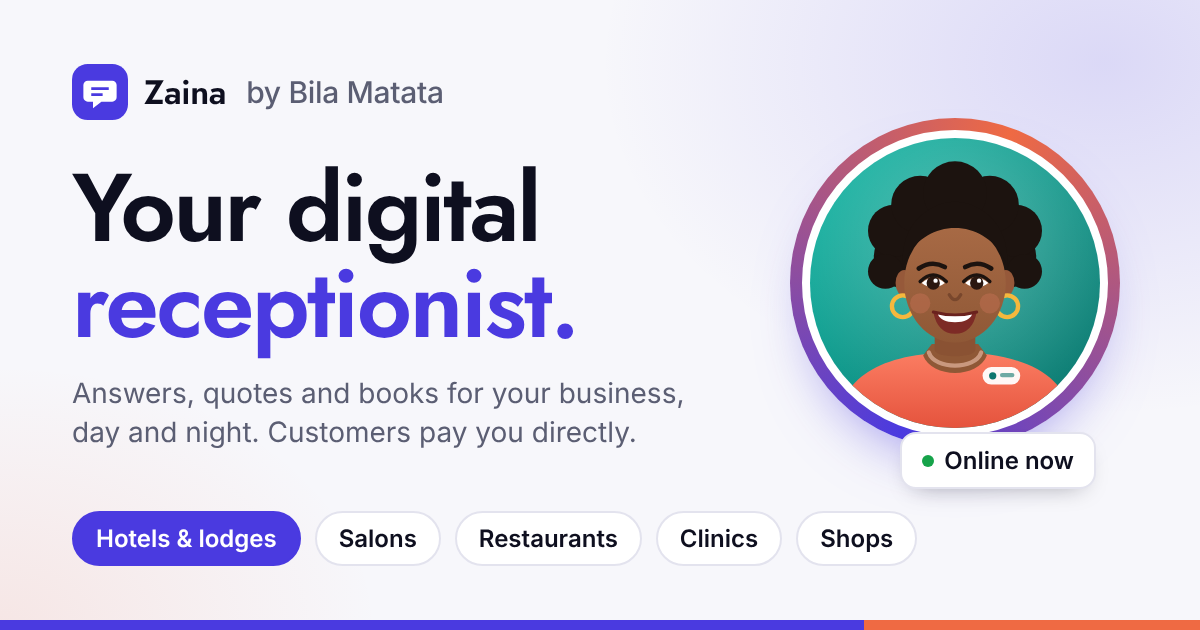
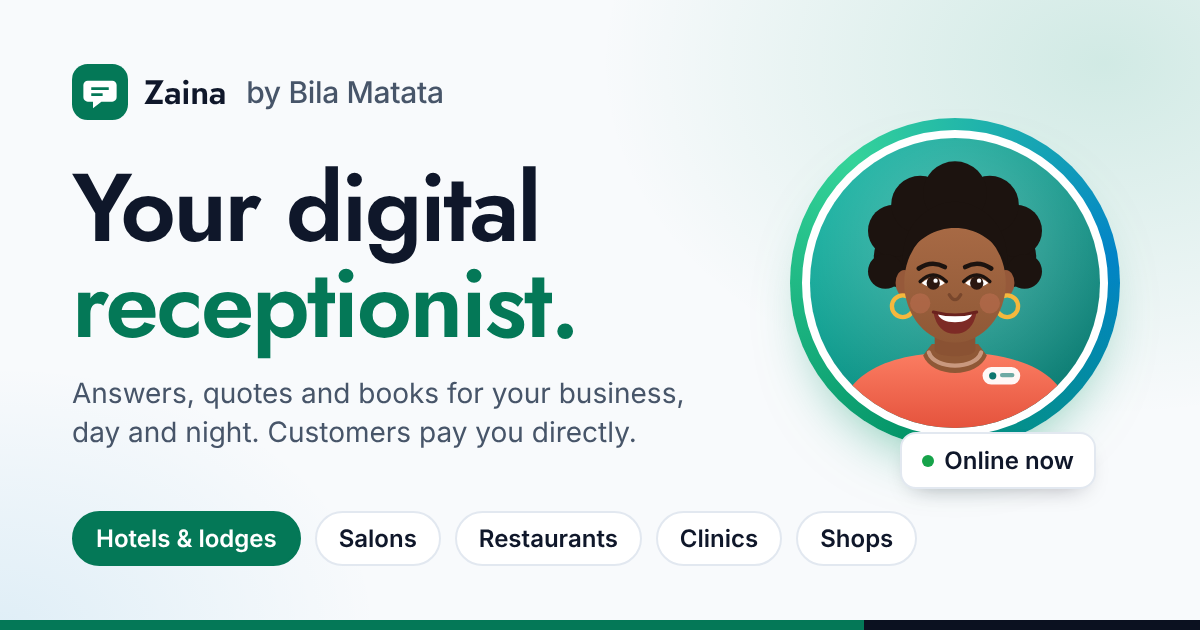
Restyle bilamatata.com: alabaster and deep forest emerald, dark slate demo stage
- Tokens: alabaster page, white cards with slate lines, slate headings and
  body text; emerald for actions (#047857 for text-sized use, so it passes
  AA) and #059669 for strokes, frames and marks; light-only marketing site
- Live demo now sits on a dark slate stage: the customer's phone stays
  bright, the owner's side is a dark dashboard with mint, cyan and amber
  status chips
- Full plan framed in 2px emerald with its mint "Finishes the sale" tag;
  service and trait icons in mint badges with emerald strokes
- Calculator answer, code snippet and contact panel on the stage colour
- Favicon, theme colour and both share images regenerated in emerald

Claude-Session: https://claude.ai/code/session_01XFQXkjhGAP37hPKd5ndQVX

diff --git a/src/studio/site-css.ts b/src/studio/site-css.ts
@@ -3,11 +3,15 @@
 // The styles of bilamatata.com's own pages (home, terms, pay), served at
 // /site/site.css. One file, no outside frameworks; light and dark.
 //
-// The brand, "Signal": Iris, a deep electric blue-violet, for the studio's
-// AI, software and data work; Zaina's coral as the one warm accent, used
-// sparingly; cool clean neutrals. Headlines, the wordmark and prices in Jost,
-// a precise geometric sans (served from our own address); everything else in
-// the phone's own sans-serif, so pages stay fast and easy to read.
+// The brand: alabaster and deep forest emerald, a high-trust light page for
+// owners reading prices and plans, with dark slate stages where the product
+// itself shows (the live demo, the code snippet, the calculator's answer).
+// Emerald for actions and trust cues (it sits naturally beside WhatsApp and
+// M-Pesa); text-sized emerald is the darker #047857 so it always reads
+// (WCAG AA); cyan and amber only inside the demo and the figures. Light
+// only: the bright page is the point. Headlines, the wordmark and prices in
+// Jost, a precise geometric sans (served from our own address); everything
+// else in the phone's own sans-serif, so pages stay fast and easy to read.
 
 import { createHash } from "node:crypto";
 import { TITLE_FONTS } from "../frontdoor/title-fonts.ts";
@@ -17,57 +21,39 @@ import { HOME_CSS, HOME_JS } from "./home-sections.ts";
 export const SITE_CSS = String.raw`
 @font-face { font-family: "Bila Display"; src: url(/c-assets/title-modern.woff2?v=${TITLE_FONTS.modern.version}) format("woff2"); font-weight: 600; font-style: normal; font-display: swap; }
 :root {
-  color-scheme: light dark;
-  --bg: #f7f7fb;
+  color-scheme: light;
+  --bg: #f8fafc;
   --surface: #ffffff;
-  --surface-2: #efeff6;
-  --ink: #0e0f1f;
-  --muted: #5b5e73;
-  --line: #e3e3ee;
-  --accent: #4a3ae0;
-  --accent-strong: #3a2bc2;
+  --surface-2: #f1f5f9;
+  --ink: #0f172a;
+  --body: #334155;
+  --muted: #475569;
+  --line: #e2e8f0;
+  --accent: #047857;
+  --accent-strong: #065f46;
   --accent-ink: #ffffff;
-  --accent-soft: #ecebfd;
-  --coral: #ef6a43;
-  --coral-ink: #c2471f;
-  --coral-soft: #fdeae3;
-  --pen: rgba(239, 106, 67, 0.55);
-  --display: "Bila Display", Jost, Futura, "Century Gothic", ui-sans-serif, system-ui, sans-serif;
-  --sans: ui-sans-serif, system-ui, -apple-system, "Segoe UI", Roboto, "Helvetica Neue", Arial, sans-serif;
+  --accent-soft: #ecfdf5;
+  --brand: #059669;
+  --mint: #6ee7b7;
+  --cyan: #0284c7;
+  --amber: #d97706;
+  --stage: #0b1120;
+  --stage-card: #0f172a;
+  --stage-line: #1e293b;
+  --stage-ink: #e2e8f0;
+  --stage-muted: #94a3b8;
   --warm: #b45309;
-  --warm-soft: #fdf1e2;
-  --ok: #15803d;
-  --ok-soft: #e7f6ec;
+  --warm-soft: #fef3c7;
+  --ok: #047857;
+  --ok-soft: #ecfdf5;
   --bad: #b91c1c;
   --bad-soft: #fdecec;
-  --shadow: 0 1px 2px rgba(14, 15, 31, 0.05), 0 18px 40px -24px rgba(36, 26, 120, 0.3);
+  --pen: rgba(16, 185, 129, 0.28);
+  --display: "Bila Display", Jost, Futura, "Century Gothic", ui-sans-serif, system-ui, sans-serif;
+  --sans: ui-sans-serif, system-ui, -apple-system, "Segoe UI", Roboto, "Helvetica Neue", Arial, sans-serif;
+  --shadow: 0 1px 2px rgba(15, 23, 42, 0.05), 0 18px 40px -24px rgba(15, 23, 42, 0.28);
   --radius: 18px;
   --wrap: 1200px;
-}
-@media (prefers-color-scheme: dark) {
-  :root {
-    --bg: #0b0c17;
-    --surface: #121427;
-    --surface-2: #181a33;
-    --ink: #eeeffc;
-    --muted: #a5a8c4;
-    --line: #262946;
-    --accent: #9f95ff;
-    --accent-strong: #bdb6ff;
-    --accent-ink: #0b0c17;
-    --accent-soft: #1d1b45;
-    --coral: #ff8e66;
-    --coral-ink: #ffab8c;
-    --coral-soft: #3a2018;
-    --pen: rgba(255, 142, 102, 0.8);
-    --warm: #fbbf24;
-    --warm-soft: #2a2110;
-    --ok: #4ade80;
-    --ok-soft: #10281a;
-    --bad: #f87171;
-    --bad-soft: #2c1414;
-    --shadow: 0 1px 2px rgba(0, 0, 0, 0.4), 0 16px 36px -20px rgba(0, 0, 0, 0.7);
-  }
 }
 *, *::before, *::after { box-sizing: border-box; }
 [hidden] { display: none !important; }
@@ -75,7 +61,7 @@ html { scroll-behavior: smooth; -webkit-text-size-adjust: 100%; }
 body {
   margin: 0;
   background: var(--bg);
-  color: var(--ink);
+  color: var(--body);
   font-family: var(--sans);
   font-size: 17px;
   line-height: 1.6;
@@ -83,7 +69,7 @@ body {
 img, svg { max-width: 100%; }
 a { color: var(--accent); text-underline-offset: 3px; }
 a:hover { color: var(--accent-strong); }
-h1, h2, h3 { line-height: 1.15; letter-spacing: -0.02em; margin: 0; text-wrap: balance; }
+h1, h2, h3 { line-height: 1.15; letter-spacing: -0.02em; margin: 0; text-wrap: balance; color: var(--ink); }
 /* Headlines in the display serif: one weight, set a touch loose, figures that line up. */
 h1, h2 { font-family: var(--display); font-weight: 600; letter-spacing: -0.022em; font-synthesis: none; }
 h1 { font-size: clamp(2.5rem, 5.6vw, 4.2rem); line-height: 1.02; }
@@ -127,19 +113,19 @@ p { margin: 0; }
 .btn[disabled] { opacity: 0.6; cursor: not-allowed; transform: none; }
 
 /* ── Hero ─────────────────────────────────────────────────────────── */
-/* A soft light behind the headline: iris to the right, a warm coral glow to the left. */
+/* A soft light behind the headline: emerald to the right, a cool cyan glow to the left. */
 .hero { padding-block: clamp(48px, 8vw, 104px) clamp(40px, 6vw, 80px);
   background: radial-gradient(52% 68% at 86% 22%, color-mix(in srgb, var(--accent) 13%, transparent), transparent 72%),
-    radial-gradient(42% 52% at 2% 0%, color-mix(in srgb, var(--coral) 10%, transparent), transparent 70%); }
+    radial-gradient(42% 52% at 2% 0%, color-mix(in srgb, var(--cyan) 8%, transparent), transparent 70%); }
 .hero-solo { max-width: var(--wrap); }
 .hero-solo > div { max-width: 50em; }
 .hero-grid { display: grid; grid-template-columns: minmax(0, 1.15fr) minmax(0, 0.85fr); gap: clamp(28px, 5vw, 64px); align-items: center; }
 .eyebrow { display: inline-flex; align-items: center; gap: 8px; font-size: 0.8rem; font-weight: 700; letter-spacing: 0.12em; text-transform: uppercase; color: var(--accent); }
-.eyebrow::before { content: ""; width: 22px; height: 2px; background: var(--coral); border-radius: 2px; }
+.eyebrow::before { content: ""; width: 22px; height: 2px; background: var(--brand); border-radius: 2px; }
 .section-head .eyebrow { margin-top: 0; font-size: 0.8rem; color: var(--accent); }
 .section-head .eyebrow + h2 { margin-top: 12px; }
 .hero h1 { margin-top: 18px; }
-/* The promise, underlined in coral like a pen stroke. */
+/* The promise, underlined with a soft emerald band like a highlighter stroke. */
 .hero h1 em { font-style: normal; color: var(--accent); background: linear-gradient(transparent 87%, var(--pen) 87%, var(--pen) 95%, transparent 95%); -webkit-box-decoration-break: clone; box-decoration-break: clone; }
 .lede { margin-top: 20px; font-size: clamp(1.05rem, 1.6vw, 1.22rem); color: var(--muted); max-width: 36em; }
 .cta-row { display: flex; flex-wrap: wrap; gap: 12px; margin-top: 30px; }
@@ -185,7 +171,7 @@ section { scroll-margin-top: 80px; }
 .band.alt .card { background: var(--bg); }
 .card h3 { margin-bottom: 8px; }
 .card p { color: var(--muted); font-size: 0.98rem; }
-.card .icon { width: 42px; height: 42px; border-radius: 12px; background: var(--accent-soft); color: var(--accent); display: grid; place-items: center; margin-bottom: 16px; }
+.card .icon { width: 42px; height: 42px; border-radius: 12px; background: var(--accent-soft); color: var(--brand); display: grid; place-items: center; margin-bottom: 16px; }
 .card .icon svg { width: 22px; height: 22px; }
 .card ul { margin: 14px 0 0; padding: 0; list-style: none; display: grid; gap: 8px; }
 .card li { position: relative; padding-left: 24px; font-size: 0.95rem; color: var(--ink); }
@@ -206,11 +192,11 @@ table.compare { width: 100%; min-width: 640px; border-collapse: collapse; font-s
 .plans { display: grid; grid-template-columns: repeat(2, minmax(0, 1fr)); gap: 18px; margin-top: 36px; }
 @media (max-width: 760px) { .plans { grid-template-columns: minmax(0, 1fr); } }
 .plan { position: relative; background: var(--surface); border: 1px solid var(--line); border-radius: 20px; padding: 28px; display: flex; flex-direction: column; min-width: 0; }
-.plan.featured { border-color: var(--accent); box-shadow: var(--shadow); }
+.plan.featured { border: 2px solid var(--brand); box-shadow: 0 24px 48px -28px rgba(5, 150, 105, 0.45); }
 .plan .tag { align-self: flex-start; font-size: 0.74rem; font-weight: 700; letter-spacing: 0.1em; text-transform: uppercase; padding: 5px 10px; border-radius: 999px; background: var(--accent-soft); color: var(--accent); margin-bottom: 14px; }
 .plan .price { margin-top: 14px; font-size: 2.5rem; line-height: 1.1; }
 /* Prices in the display serif, figures lined up. */
-.plan .price, .plan-extra .price, .card.service .from, .amount { font-family: var(--display); font-weight: 600; letter-spacing: -0.015em; font-variant-numeric: tabular-nums; font-synthesis: none; }
+.plan .price, .plan-extra .price, .card.service .from, .amount { font-family: var(--display); font-weight: 600; color: var(--ink); letter-spacing: -0.015em; font-variant-numeric: tabular-nums; font-synthesis: none; }
 .plan .price small, .plan-extra .price small, .card.service .from span { font-family: var(--sans); }
 .plan .price small { font-size: 1rem; font-weight: 600; color: var(--muted); letter-spacing: 0; }
 .plan .setup { margin-top: 4px; color: var(--muted); font-size: 0.95rem; }
@@ -239,7 +225,7 @@ table.compare { width: 100%; min-width: 640px; border-collapse: collapse; font-s
 .plan li { position: relative; padding-left: 26px; font-size: 0.97rem; }
 .plan li::before { content: ""; position: absolute; left: 3px; top: 0.5em; width: 12px; height: 7px; border-left: 2px solid var(--accent); border-bottom: 2px solid var(--accent); transform: rotate(-45deg); }
 .fine { margin-top: 18px; font-size: 0.9rem; color: var(--muted); }
-.snippet { margin-top: 28px; padding: 16px 18px; border-radius: 14px; background: var(--ink); color: var(--bg); font-family: ui-monospace, SFMono-Regular, Menlo, Consolas, monospace; font-size: 0.86rem; overflow-x: auto; white-space: pre; }
+.snippet { margin-top: 28px; padding: 16px 18px; border-radius: 14px; background: var(--stage); color: var(--stage-ink); border: 1px solid var(--stage-line); font-family: ui-monospace, SFMono-Regular, Menlo, Consolas, monospace; font-size: 0.86rem; overflow-x: auto; white-space: pre; }
 
 /* Steps. */
 .steps { counter-reset: step; display: grid; grid-template-columns: repeat(4, minmax(0, 1fr)); gap: 18px; margin: 36px 0 0; padding: 0; list-style: none; }
@@ -251,7 +237,7 @@ table.compare { width: 100%; min-width: 640px; border-collapse: collapse; font-s
 .steps p { color: var(--muted); font-size: 0.96rem; }
 
 /* Contact. */
-.contact { background: radial-gradient(70% 130% at 100% 0%, color-mix(in srgb, var(--accent) 34%, transparent), transparent 62%), var(--ink); color: var(--bg); border-radius: 26px; padding: clamp(28px, 5vw, 56px); display: grid; grid-template-columns: minmax(0, 1.2fr) minmax(0, 0.8fr); gap: 28px; align-items: center; }
+.contact { background: radial-gradient(70% 130% at 100% 0%, color-mix(in srgb, var(--brand) 30%, transparent), transparent 62%), var(--stage); color: var(--bg); border-radius: 26px; padding: clamp(28px, 5vw, 56px); display: grid; grid-template-columns: minmax(0, 1.2fr) minmax(0, 0.8fr); gap: 28px; align-items: center; }
 .contact h2 { color: var(--bg); }
 .contact p { margin-top: 12px; color: color-mix(in srgb, var(--bg) 78%, transparent); }
 .contact .ways { display: grid; gap: 10px; margin: 0; padding: 0; list-style: none; font-size: 1.02rem; }

diff --git a/src/studio/home-sections.ts b/src/studio/home-sections.ts
@@ -265,7 +265,7 @@ export const HOME_CSS = String.raw`
 .hero-card { background: var(--surface); border: 1px solid var(--line); border-radius: 28px; box-shadow: var(--shadow); padding: 28px 24px 24px; display: grid; justify-items: center; text-align: center; gap: 6px; min-width: 0; position: relative; overflow: hidden; }
 .hero-card::before { content: ""; position: absolute; inset: 0 0 auto; height: 120px; background: linear-gradient(180deg, var(--accent-soft), transparent); pointer-events: none; }
 .hero-face { position: relative; width: 176px; height: 176px; }
-.hero-face img { width: 100%; height: 100%; border-radius: 50%; display: block; border: 5px solid var(--surface); box-shadow: 0 10px 30px -10px rgba(74, 58, 224, 0.45); animation: zaina-breathe 5s ease-in-out infinite; }
+.hero-face img { width: 100%; height: 100%; border-radius: 50%; display: block; border: 5px solid var(--surface); box-shadow: 0 10px 30px -10px rgba(5, 150, 105, 0.35); animation: zaina-breathe 5s ease-in-out infinite; }
 .online { position: absolute; left: 50%; bottom: -10px; transform: translateX(-50%); display: inline-flex; align-items: center; gap: 7px; padding: 5px 12px; border-radius: 999px; background: var(--surface); border: 1px solid var(--line); font-size: 0.78rem; font-weight: 700; color: var(--ok); white-space: nowrap; box-shadow: 0 4px 12px -6px rgba(0,0,0,.3); }
 .online i { width: 8px; height: 8px; border-radius: 50%; background: var(--ok); animation: zaina-pulse 2s ease-in-out infinite; }
 .hero-name { margin-top: 14px; font-size: 1.15rem; }
@@ -289,7 +289,7 @@ export const HOME_CSS = String.raw`
 .meet { display: grid; grid-template-columns: minmax(0, 0.8fr) minmax(0, 1.2fr); gap: clamp(28px, 5vw, 72px); align-items: center; }
 @media (max-width: 860px) { .meet { grid-template-columns: minmax(0, 1fr); } }
 .meet-portrait { position: relative; justify-self: center; width: min(100%, 360px); aspect-ratio: 1; }
-.meet-ring { width: 100%; height: 100%; border-radius: 50%; padding: 10px; background: conic-gradient(from 200deg, var(--accent), #f59e0b, #fb7d62, var(--accent)); box-shadow: 0 24px 60px -24px rgba(74, 58, 224, .45); }
+.meet-ring { width: 100%; height: 100%; border-radius: 50%; padding: 10px; background: conic-gradient(from 200deg, var(--brand), #34d399, var(--cyan), var(--brand)); box-shadow: 0 24px 60px -24px rgba(5, 150, 105, .35); }
 .meet-ring img { width: 100%; height: 100%; display: block; border-radius: 50%; border: 6px solid var(--surface); background: var(--surface); }
 .meet-tag { position: absolute; display: inline-flex; align-items: center; gap: 8px; padding: 9px 14px; border-radius: 14px; background: var(--surface); border: 1px solid var(--line); box-shadow: var(--shadow); font-size: 0.86rem; font-weight: 650; animation: zaina-breathe 6s ease-in-out infinite; }
 .meet-tag svg { width: 18px; height: 18px; color: var(--accent); flex: none; }
@@ -298,7 +298,7 @@ export const HOME_CSS = String.raw`
 @media (max-width: 480px) { .meet-tag-a { left: 0; } .meet-tag-b { right: 0; } }
 .trait-list { list-style: none; margin: 24px 0 0; padding: 0; display: grid; gap: 16px; }
 .trait-list li { display: grid; grid-template-columns: 42px minmax(0, 1fr); gap: 14px; align-items: start; }
-.trait-list .icon { width: 42px; height: 42px; border-radius: 12px; background: var(--accent-soft); color: var(--accent); display: grid; place-items: center; }
+.trait-list .icon { width: 42px; height: 42px; border-radius: 12px; background: var(--accent-soft); color: var(--brand); display: grid; place-items: center; }
 .trait-list .icon svg { width: 22px; height: 22px; }
 .trait-list h3 { font-size: 1.05rem; margin-bottom: 2px; }
 .trait-list p { color: var(--muted); font-size: 0.97rem; }
@@ -320,7 +320,7 @@ export const HOME_CSS = String.raw`
 .calc { display: grid; grid-template-columns: minmax(0, 1.1fr) minmax(0, 0.9fr); gap: clamp(20px, 4vw, 48px); margin-top: 36px; align-items: start; }
 @media (max-width: 900px) { .calc { grid-template-columns: minmax(0, 1fr); } }
 .calc-inputs, .calc-results { background: var(--surface); border: 1px solid var(--line); border-radius: 22px; padding: clamp(18px, 3vw, 30px); min-width: 0; }
-.calc-results { background: var(--ink); color: var(--bg); border-color: var(--ink); position: sticky; top: 88px; }
+.calc-results { background: var(--stage); color: var(--stage-ink); border-color: var(--stage-line); position: sticky; top: 88px; }
 @media (max-width: 900px) { .calc-results { position: static; } }
 .calc-presets { display: flex; flex-wrap: wrap; gap: 8px; align-items: center; margin-bottom: 8px; }
 .calc-presets span { font-size: 0.88rem; font-weight: 650; color: var(--muted); margin-right: 4px; }
@@ -338,12 +338,12 @@ export const HOME_CSS = String.raw`
 .money-input:focus-within { border-color: var(--accent); }
 .calc-label { font-size: 0.76rem; font-weight: 700; letter-spacing: 0.12em; text-transform: uppercase; opacity: .7; }
 .calc-big { margin-top: 10px; font-size: 1.15rem; }
-.calc-big strong { font-size: clamp(2.6rem, 6vw, 3.6rem); letter-spacing: -0.03em; font-variant-numeric: tabular-nums; line-height: 1; color: #b9b2ff; margin-right: 6px; }
+.calc-big strong { font-size: clamp(2.6rem, 6vw, 3.6rem); letter-spacing: -0.03em; font-variant-numeric: tabular-nums; line-height: 1; color: var(--mint); margin-right: 6px; }
 .calc-sub { margin-top: 6px; font-size: 1.05rem; opacity: .9; }
 .calc-sub strong { font-variant-numeric: tabular-nums; }
 .calc-plans { list-style: none; margin: 20px 0 0; padding: 0; display: grid; gap: 8px; }
 .calc-plans li { display: flex; flex-wrap: wrap; justify-content: space-between; gap: 4px 14px; padding: 12px 14px; border-radius: 14px; background: rgba(255,255,255,.08); font-size: 0.93rem; }
-.calc-plans li.us { background: rgba(159, 149, 255, .18); }
+.calc-plans li.us { background: rgba(16, 185, 129, .16); }
 .calc-times { margin-top: 14px; font-size: 0.95rem; }
 .calc-results .fine { color: inherit; opacity: .72; }
 .calc-results .btn { margin-top: 18px; width: 100%; background: var(--bg); color: var(--ink); }
@@ -383,7 +383,7 @@ export const HOME_CSS = String.raw`
 .reach-channels svg { width: 20px; height: 20px; color: var(--accent); flex: none; }
 .reach-kinds { margin-top: 10px; font-weight: 600; font-size: 0.95rem; line-height: 1.7; }
 .reach-kinds span { white-space: nowrap; }
-.reach-kinds i { font-style: normal; color: var(--coral); margin: 0 8px; }
+.reach-kinds i { font-style: normal; color: var(--brand); margin: 0 8px; }
 .reach-note { margin-top: 10px; font-size: 0.95rem; color: var(--ink); }
 @media (max-width: 960px) { .reach-grid { grid-template-columns: minmax(0, 1fr); gap: 18px; padding-block: 22px; } }
 

diff --git a/src/studio/demo.ts b/src/studio/demo.ts
@@ -368,16 +368,24 @@ export const DEMO_CSS = String.raw`
 .demo-controls { display: flex; gap: 8px; }
 .demo-controls button { background: transparent; color: var(--muted); }
 .demo-progress { margin-top: 14px; height: 3px; border-radius: 3px; background: var(--line); overflow: hidden; }
-.demo-progress span { display: block; height: 100%; width: 100%; background: var(--accent); transform-origin: left center; transform: scaleX(1); transition: transform 0.4s ease; }
+.demo-progress span { display: block; height: 100%; width: 100%; background: var(--brand); transform-origin: left center; transform: scaleX(1); transition: transform 0.4s ease; }
 .demo-scene { margin-top: 18px; }
 .demo-scene + .demo-scene { margin-top: 44px; }
 .demo-what { display: flex; flex-wrap: wrap; align-items: center; gap: 10px; font-weight: 650; font-size: 1.05rem; }
 .demo-plan { font-size: 0.72rem; font-weight: 700; letter-spacing: 0.1em; text-transform: uppercase; padding: 4px 10px; border-radius: 999px; background: var(--accent-soft); color: var(--accent); }
-.demo-stage { display: grid; grid-template-columns: minmax(0, 0.82fr) minmax(0, 1.18fr); gap: clamp(16px, 3vw, 32px); margin-top: 16px; align-items: stretch; }
+/* The stage: dark slate, so the product itself is what lights up. The customer's phone stays bright; the owner's side is a dark dashboard. */
+.demo-stage { display: grid; grid-template-columns: minmax(0, 0.82fr) minmax(0, 1.18fr); gap: clamp(16px, 3vw, 32px); margin-top: 16px; align-items: stretch; background: var(--stage); border: 1px solid var(--stage-line); border-radius: 28px; padding: clamp(14px, 3vw, 32px); box-shadow: 0 30px 60px -36px rgba(15, 23, 42, 0.55); }
 @media (max-width: 860px) { .demo-stage { grid-template-columns: minmax(0, 1fr); } }
 .demo-stage figure { margin: 0; min-width: 0; display: flex; flex-direction: column; }
-.demo-stage figcaption { font-size: 0.78rem; font-weight: 700; letter-spacing: 0.1em; text-transform: uppercase; color: var(--muted); margin-bottom: 10px; }
-.demo-screen, .demo-panel { background: var(--bg); border: 1px solid var(--line); border-radius: 22px; box-shadow: var(--shadow); min-width: 0; }
+.demo-stage figcaption { font-size: 0.78rem; font-weight: 700; letter-spacing: 0.1em; text-transform: uppercase; color: var(--stage-muted); margin-bottom: 10px; }
+.demo-screen, .demo-panel { background: var(--surface); border: 1px solid var(--line); border-radius: 22px; min-width: 0; }
+.demo-panel {
+  --surface: rgba(255, 255, 255, 0.035); --surface-2: rgba(255, 255, 255, 0.06); --line: var(--stage-line);
+  --ink: #f1f5f9; --body: var(--stage-ink); --muted: var(--stage-muted);
+  --accent: var(--mint); --accent-soft: rgba(16, 185, 129, 0.14);
+  --ok: var(--mint); --ok-soft: rgba(16, 185, 129, 0.14); --warm: #fbbf24; --warm-soft: rgba(217, 119, 6, 0.18);
+  background: var(--stage-card); color: var(--body);
+}
 .demo-screen { display: flex; flex-direction: column; overflow: hidden; flex: 1; }
 .demo-chat { display: flex; flex-direction: column; gap: 10px; padding: 16px; height: 430px; overflow-y: auto; overscroll-behavior: contain; scrollbar-width: thin; }
 .demo-chat .bubble { max-width: 88%; }
@@ -403,14 +411,14 @@ export const DEMO_CSS = String.raw`
 .demo-chip { display: inline-flex; align-items: center; font-size: 0.72rem; font-weight: 700; letter-spacing: 0.04em; padding: 4px 10px; border-radius: 999px; white-space: nowrap; }
 .demo-chip.ok { background: var(--ok-soft); color: var(--ok); }
 .demo-chip.warn { background: var(--warm-soft); color: var(--warm); }
-.demo-chip.info { background: var(--accent-soft); color: var(--accent); }
+.demo-chip.info { background: rgba(2, 132, 199, 0.2); color: #7dd3fc; }
 .demo-block h4 { margin: 0 0 8px; font-size: 0.72rem; font-weight: 700; letter-spacing: 0.1em; text-transform: uppercase; color: var(--muted); }
 .demo-work { margin: 0; padding: 0; list-style: none; display: grid; gap: 7px; }
 .demo-work li { display: flex; gap: 8px; align-items: flex-start; font-size: 0.88rem; color: var(--ink); }
 .demo-work svg { margin-top: 4px; color: var(--accent); }
-.demo-alert { display: flex; gap: 10px; align-items: flex-start; padding: 11px 13px; border-radius: 14px; background: var(--ink); color: var(--bg); }
+.demo-alert { display: flex; gap: 10px; align-items: flex-start; padding: 11px 13px; border-radius: 14px; background: rgba(5, 150, 105, 0.16); border: 1px solid rgba(16, 185, 129, 0.32); color: var(--ink); }
 .demo-alert + .demo-alert { margin-top: 8px; }
-.demo-bell { width: 30px; height: 30px; border-radius: 9px; background: color-mix(in srgb, var(--bg) 16%, transparent); display: grid; place-items: center; flex: none; }
+.demo-bell { width: 30px; height: 30px; border-radius: 9px; background: rgba(16, 185, 129, 0.22); color: var(--mint); display: grid; place-items: center; flex: none; }
 .demo-bell svg { width: 16px; height: 16px; }
 .demo-alert strong { display: block; font-size: 0.86rem; }
 .demo-alert div span { font-size: 0.82rem; opacity: 0.82; }

diff --git a/src/studio/pages.ts b/src/studio/pages.ts
@@ -64,7 +64,7 @@ ${options.article ? `<meta property="article:published_time" content="${esc(opti
 <meta property="og:description" content="${esc(options.description)}">
 ${canonical ? `<meta property="og:url" content="${esc(canonical)}">` : ""}
 ${options.baseUrl ? `<meta property="og:image" content="${esc(options.baseUrl)}${esc(options.image ?? "/site/og.png")}">\n<meta name="twitter:card" content="summary_large_image">` : ""}
-<meta name="theme-color" content="#4a3ae0">
+<meta name="theme-color" content="#047857">
 <link rel="icon" href="/site/favicon.svg" type="image/svg+xml">
 <link rel="preload" href="/c-assets/title-modern.woff2?v=${TITLE_FONTS.modern.version}" as="font" type="font/woff2" crossorigin>
 <link rel="stylesheet" href="/site/site.css?v=${SITE_ASSETS_VERSION}">
@@ -562,4 +562,4 @@ ${footer()}
 /** The parts every studio page shares, for the payment pages. */
 export const siteParts = { head, header, footer, ICONS, zainaEmbed: () => ZAINA_EMBED };
 
-export const FAVICON_SVG = `<svg xmlns="http://www.w3.org/2000/svg" viewBox="0 0 32 32"><rect width="32" height="32" rx="9" fill="#4a3ae0"/><path fill="#fff" d="M9 9.500h14a2.500 2.500 0 0 1 2.500 2.500v7a2.500 2.500 0 0 1-2.500 2.500h-6.200L12 25.300v-3.800H9A2.500 2.500 0 0 1 6.500 19v-7A2.500 2.500 0 0 1 9 9.500Z"/><path fill="#0f766e" d="M11 13.250h10v1.600H11zm0 3.400h6.500v1.600H11z"/></svg>`;
+export const FAVICON_SVG = `<svg xmlns="http://www.w3.org/2000/svg" viewBox="0 0 32 32"><rect width="32" height="32" rx="9" fill="#047857"/><path fill="#fff" d="M9 9.500h14a2.500 2.500 0 0 1 2.500 2.500v7a2.500 2.500 0 0 1-2.500 2.500h-6.200L12 25.300v-3.800H9A2.500 2.500 0 0 1 6.500 19v-7A2.500 2.500 0 0 1 9 9.500Z"/><path fill="#047857" d="M11 13.250h10v1.600H11zm0 3.400h6.500v1.600H11z"/></svg>`;
